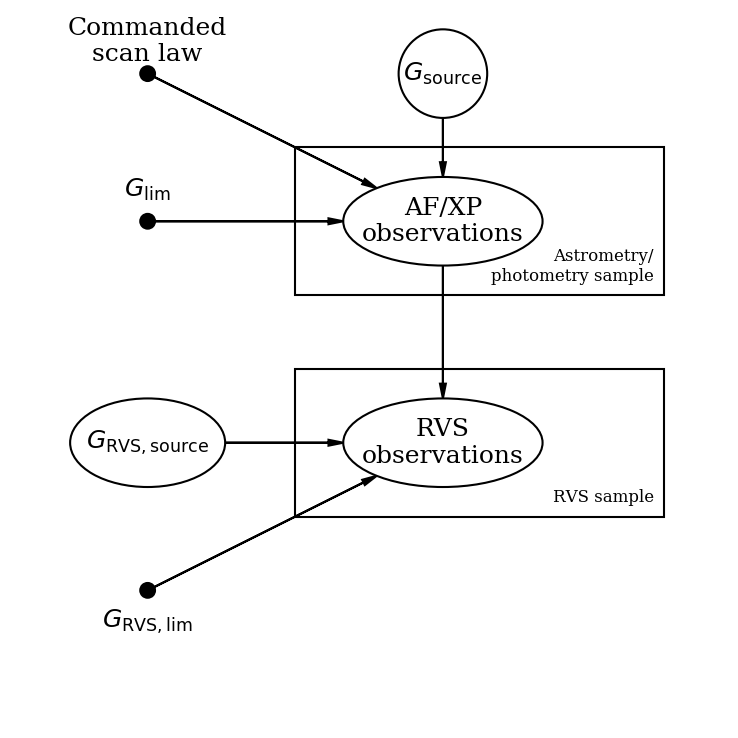
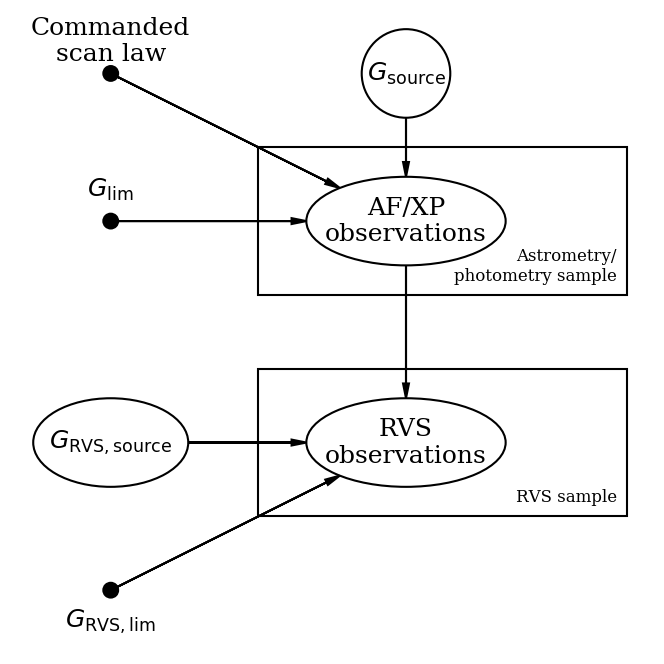
tighter margins

diff --git a/img/pgm_ideal_gaia_selection_function.py b/img/pgm_ideal_gaia_selection_function.py
@@ -10,7 +10,7 @@ rc("text", usetex=False)
 
 import daft
 
-pgm = daft.PGM([5,5], origin=[0, 0], node_unit=1.5, grid_unit=2.5)
+pgm = daft.PGM([4.5,4.5], origin=[0.25, 0.5], node_unit=1.5, grid_unit=2.5)
 
 pgm.add_node(daft.Node("Gsource", "$G_\mathrm{source}$", 3, 4.5))
 pgm.add_node(daft.Node("afxpobs", "AF/XP\nobservations", 3, 3.5, aspect=2.25))

diff --git a/img/pgm_realistic_gaia_selection_function.py b/img/pgm_realistic_gaia_selection_function.py
@@ -11,7 +11,7 @@ rc("text", usetex=False)
 
 import daft
 
-pgm = daft.PGM([13,9], origin=[-1, 1], node_unit=1.5, grid_unit=2.5)
+pgm = daft.PGM([12.75,7.5], origin=[-1, 2], node_unit=1.5, grid_unit=2.5)
 
 pgm.add_node(daft.Node("Gsource", "$G_\mathrm{source}$", 0, 8))
 pgm.add_node(daft.Node("detection", "detection", 3, 8, aspect=2.25))
